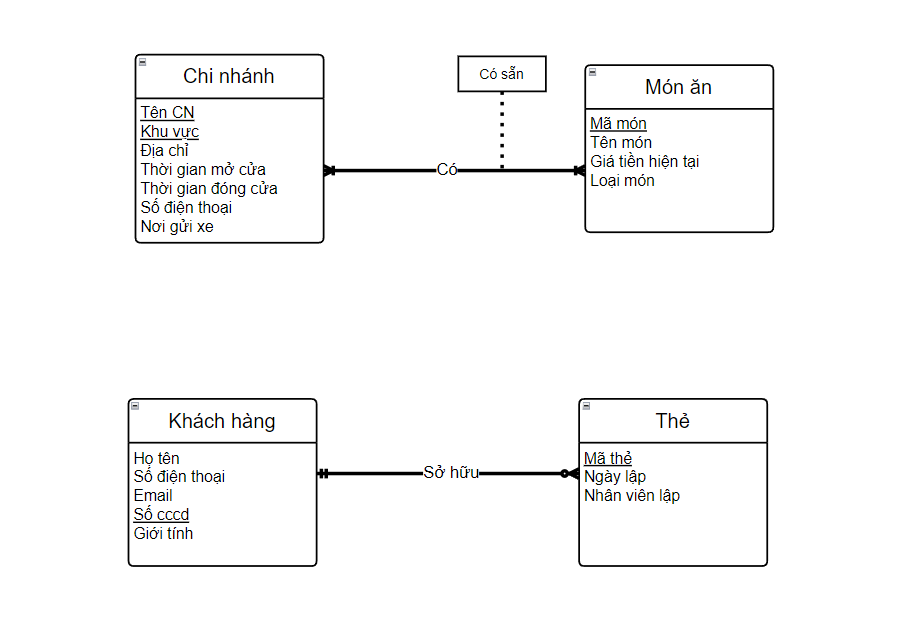
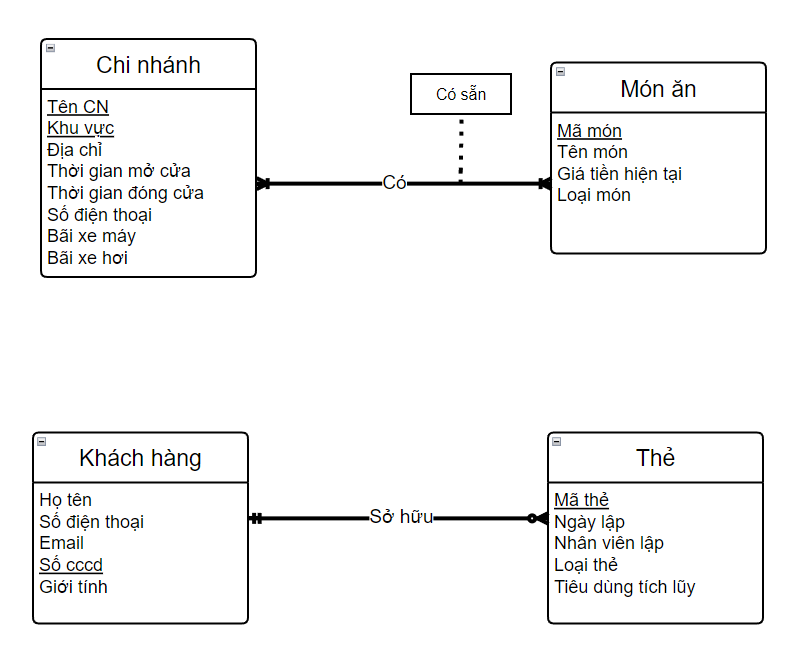
Update Mô hình ER and create Lược đồ quan hệ

diff --git a/Lược đồ quan hệ đoạn đầu.md b/Lược đồ quan hệ đoạn đầu.md
@@ -1,0 +1,19 @@
+# Lược đồ quan hệ
+## Đoạn đầu
+### Xác định công việc:
+    - Bảng bao gồm: Chi nhánh, Thực đơn (sự liên kết giữa chi nhánh và món ăn), Món ăn, Khách hàng, Thẻ khách hàng.
+    - Ràng buộc:
+        - Bảng chi nhánh: Thời gian mở cửa và thời gian đóng cửa phải thuộc giờ trong 1 ngày, thời gian đóng cửa sau thời gian mở cửa.
+        - Khách hàng: Số cccd phải có 12 số, Giới tính phải là nam hoặc nữ.
+        - Bảng thẻ khách hàng: loại thẻ phải là thành viên hoặc silver hoặc gold.
+    - Khóa chính:
+        - Bảng chi nhánh: Tên chi nhánh, khu vực.
+        - Bảng thực đơn: Tên chi nhánh, khu vực, mã món.
+        - Bảng món ăn: mã món.
+        - Bảng khách hàng: Số cccd.
+        - Bảng thẻ khách hàng: Mã thẻ
+    - Khóa ngoại
+        - Bảng thực đơn: 
+            - TênCN, Khu vực (Thực đơn) --> TênCN, Khu vực (Chi nhánh)
+            - Mã món (Thực đơn) --> Mã món (Món ăn)
+        - Bảng thẻ khách hàng: Số cccd (Thẻ khách hàng) --> Số cccd (Khách hàng)

diff --git a/Đặc tả đoạn đầu.md b/Đặc tả đoạn đầu.md
@@ -18,7 +18,7 @@
     - Số điện thoại,
     - Email, 
     - Số cccd, 
-    Giới tính.
+    - Giới tính.
 ---
 - Thẻ khách hàng có thông tin gồm:
     - Mã thẻ cụ thể, 
